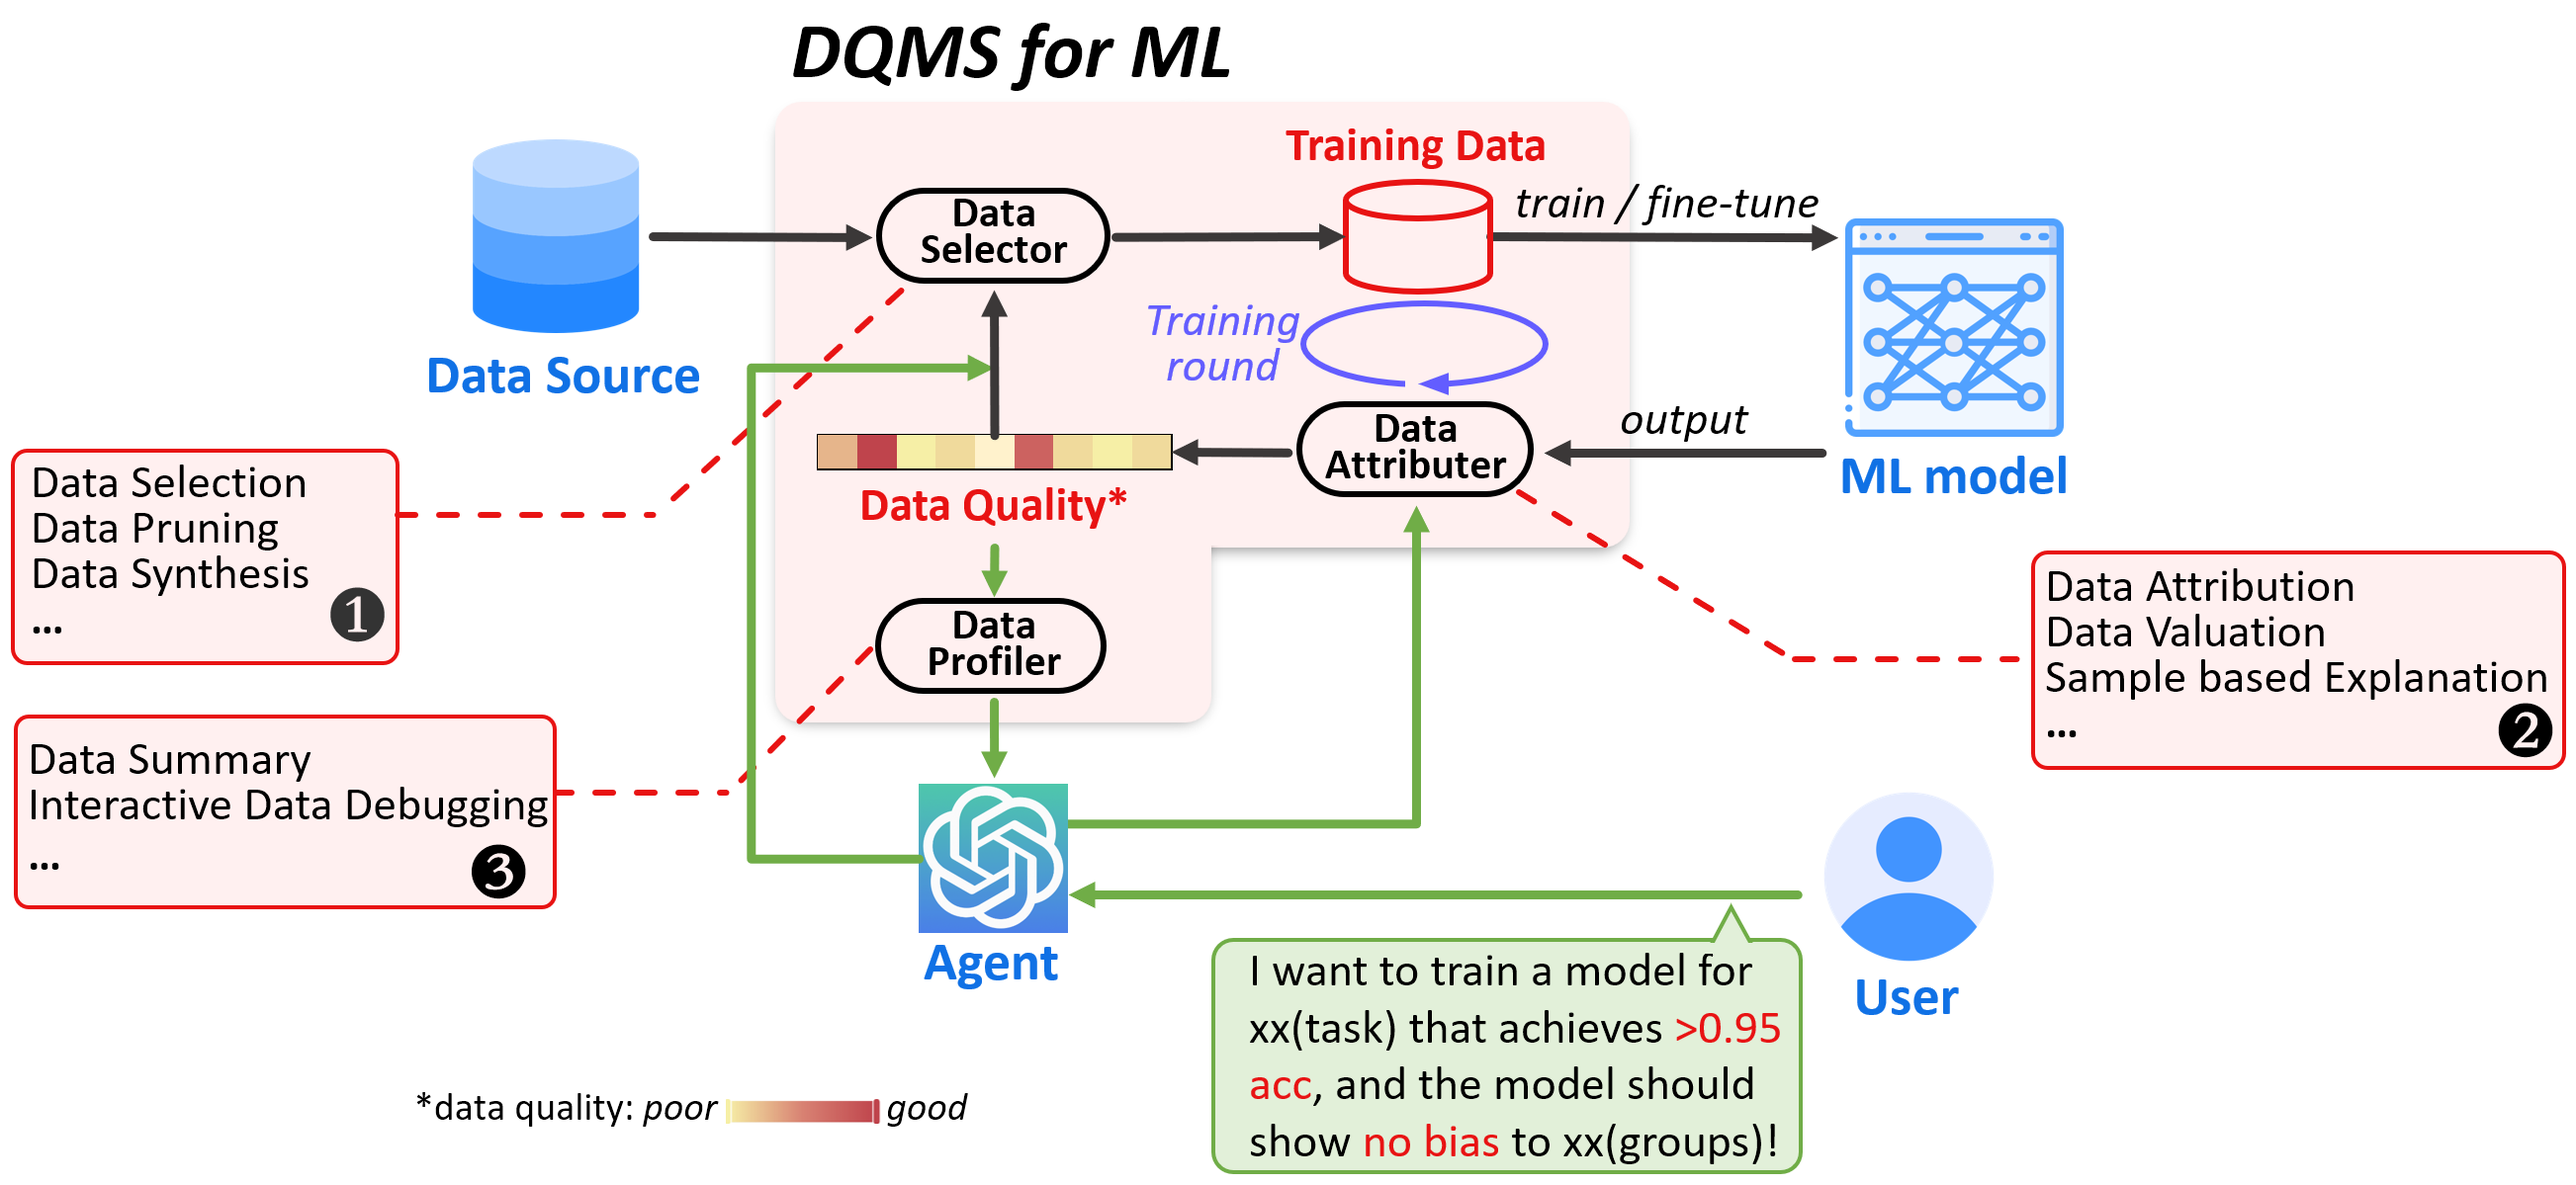
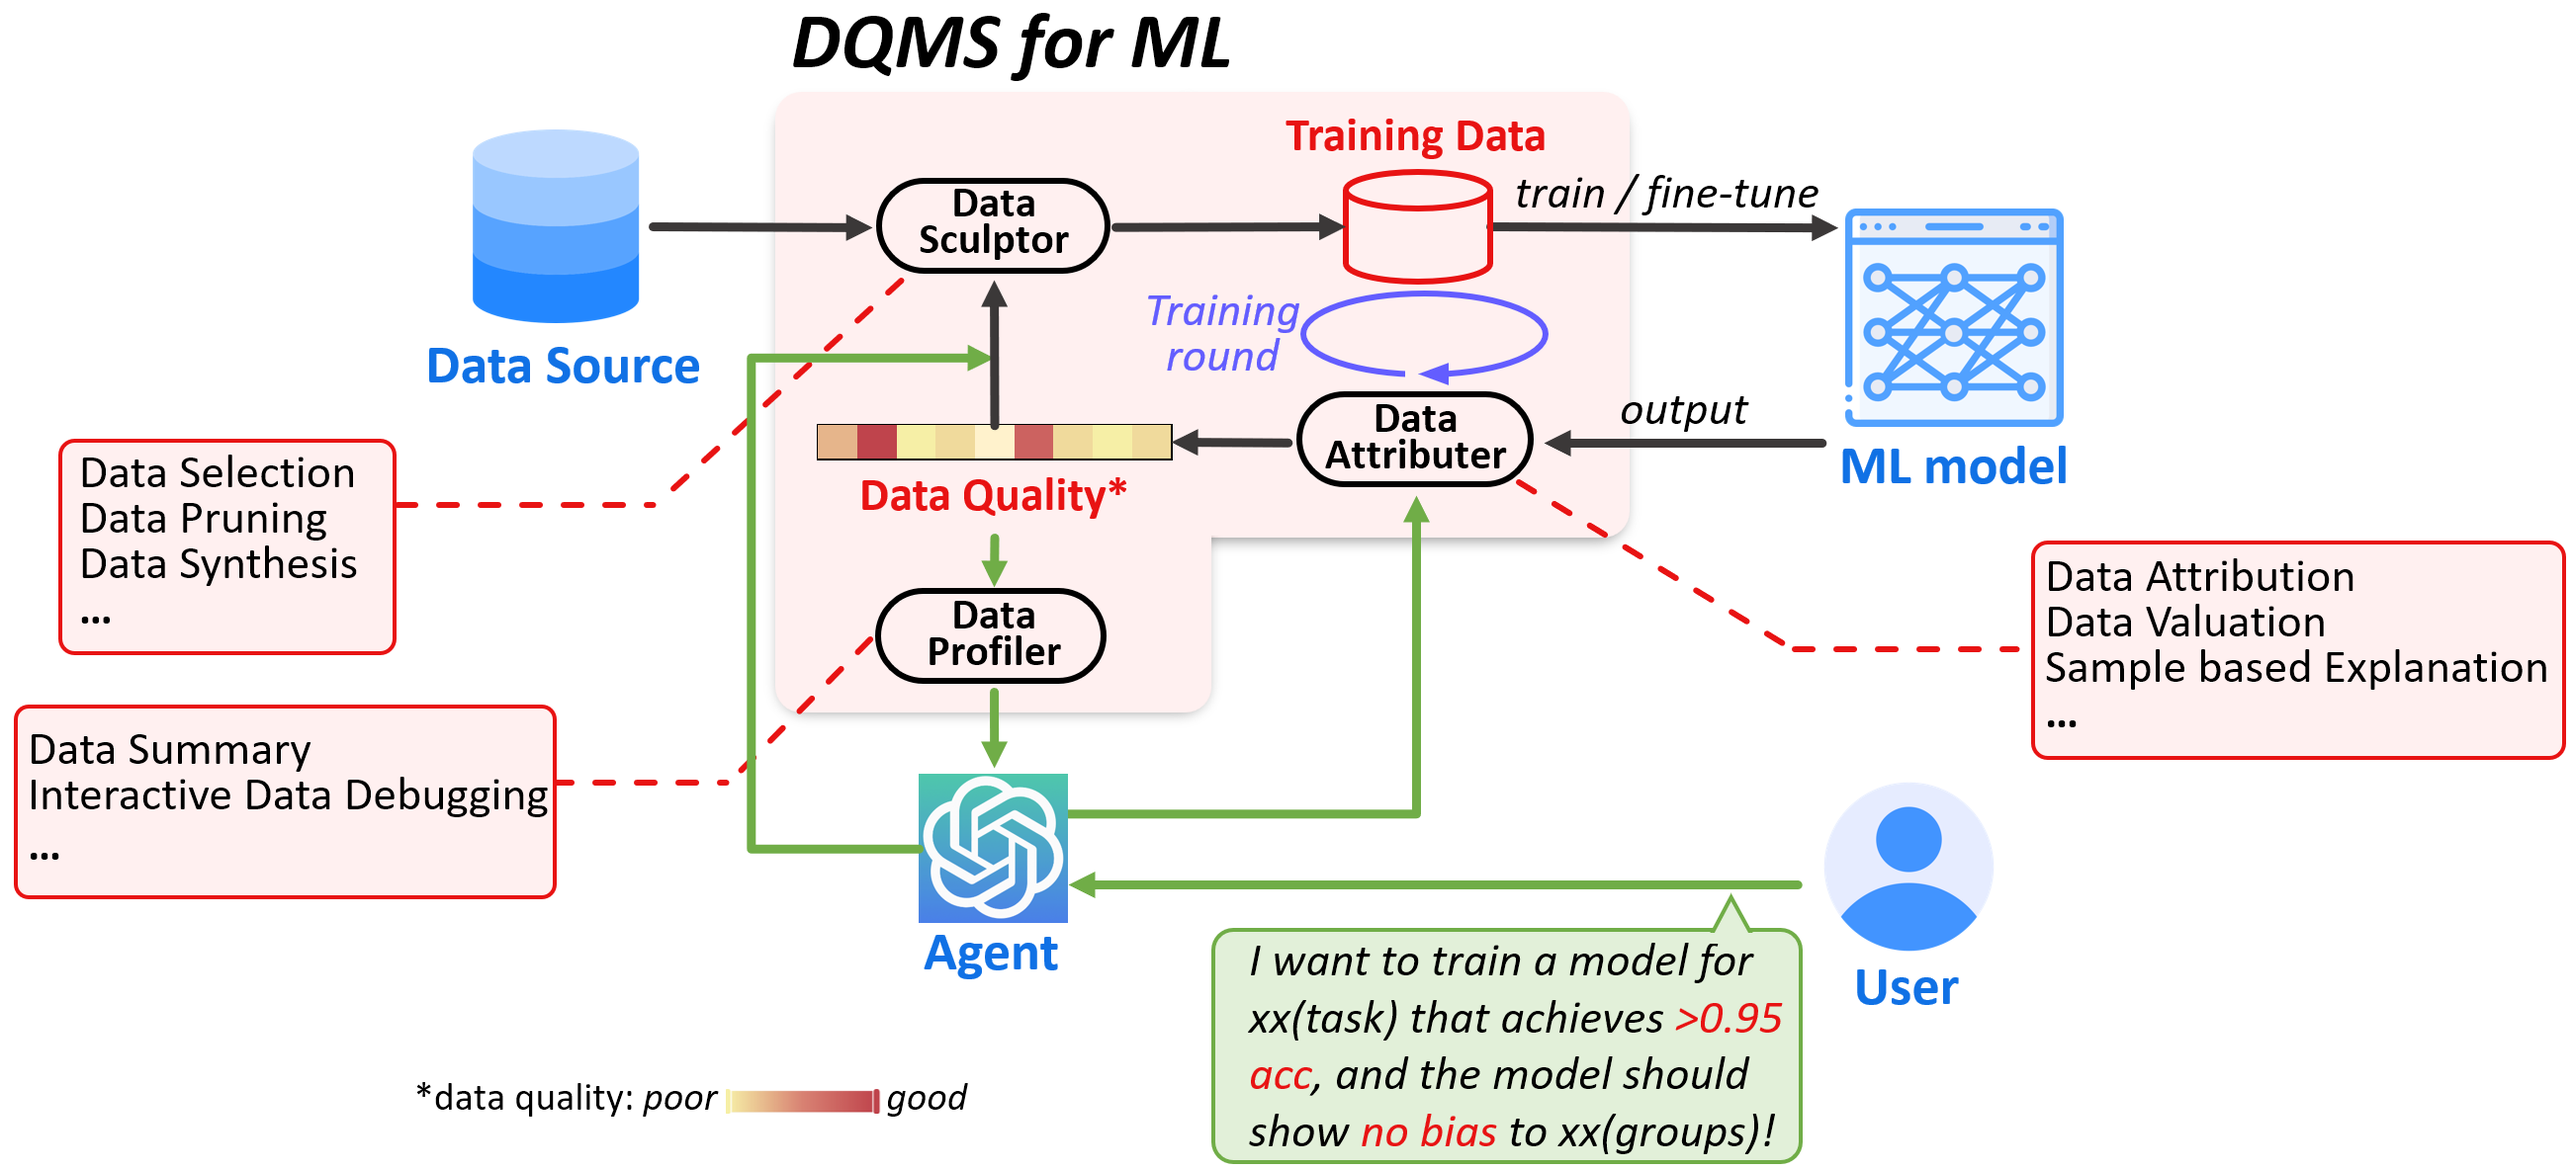
update papers

diff --git a/README.md b/README.md
@@ -17,9 +17,9 @@ Considering the following pipeline, DQMS acts as a **middleware** between data, 
 </div>
 
 
-A DQMS for ML typically consists of three components: **Data Selector**, **Data Attributer**, and **Data Profiler**. To achieve a well-performing ML model, multiple rounds of training are often required. In this process, the DQMS needs to iteratively adjust the training data based on the results of each round of model training. The workflow of DQMS in one round of training is as follows: (a) Data Selector first acquires the training dataset from a data source and trains the ML model with it. (b) After training for one round (several epochs), Data Attributer absorbs feedback from the model and user's task requirements and computes the data quality assessment. (c) Data Profiler then provides a user-friendly summary of the training data. (d) Meanwhile, Data Selector utilizes the data quality assessment as feedback to acquire higher-quality training data, thus initiating a new iteration.
+A DQMS for ML typically consists of three components: **Data Sculptor** [2], **Data Attributer**, and **Data Profiler**. To achieve a well-performing ML model, multiple rounds of training are often required. In this process, the DQMS needs to iteratively adjust the training data based on the results of each round of model training. The workflow of DQMS in one round of training is as follows: (a) Data sculptor first acquires the training dataset from a data source and trains the ML model with it. (b) After training for one round (several epochs), Data Attributer absorbs feedback from the model and user's task requirements and computes the data quality assessment. (c) Data Profiler then provides a user-friendly summary of the training data. (d) Meanwhile, Data Sculptor utilizes the data quality assessment as feedback to acquire higher-quality training data, thus initiating a new iteration.
 
-We collect the recent influential papers about DQMS for ML and annotate the relevant DQMS components involved in these papers, where `DS` = Data Selector, `DA` = Data Attributer, and `DP` = Data Profiler.
+We collect the recent influential papers about DQMS for ML and annotate the relevant DQMS components involved in these papers, where `DS` = Data Sculptor, `DA` = Data Attributer, and `DP` = Data Profiler.
 
 ## Paper List
 
@@ -27,8 +27,12 @@ We collect the recent influential papers about DQMS for ML and annotate the rele
 
 | Venue     | Paper                                                        |                            Links                             |   Tags    | TLDR                                                         |
 | :-------- | :----------------------------------------------------------- | :----------------------------------------------------------: | :-------: | :----------------------------------------------------------- |
+| VLDB'24   | Optimizing Data Acquisition to Enhance Machine Learning Performance | [paper](https://www.vldb.org/pvldb/vol14/p1832-li.pdf) [code](https://github.com/AwesomeYifan/Data-acquisition-for-ML) |   `DS`    |                                                              |
+| VLDB'24   | MisDetect: Iterative Mislabel Detection using Early Loss     | [paper](https://www.vldb.org/pvldb/vol17/p1159-chai.pdf) [code](https://github.com/anonymous-repo1/misdetect) |   `DA`    |                                                              |
+| SIGMOD'24 | Data Acquisition for Improving Model Confidence              |                                                              |           |                                                              |
 | SIGMOD'24 | Controllable Tabular Data Synthesis Using Diffusion Models   |                                                              |   `DS`    |                                                              |
 | SIGMOD'24 | Fast Shapley Value Computation in Data Assemblage Tasks as Cooperative Simple Games | [paper](https://xuc.me/file/paper/SIGMOD24b.pdf) [code](https://github.com/IDEAL-Lab/shapley-value-simple-game) |   `DA`    | *It assigns a Shapley score for data owners and their corresponding datasets in data market.* |
+| WWW'24    | Exploring Neural Scaling Law and Data Pruning Methods For Node Classification on Large-scale Graphs |                                                              |   `DS`    |                                                              |
 | AAAI'24   | Quality-Diversity Generative Sampling for Learning with Synthetic Data | [paper](https://ojs.aaai.org/index.php/AAAI/article/download/29955/31670) [code](https://github.com/Cylumn/qd-generative-sampling) |   `DS`    |                                                              |
 | AAAI'24   | Approximating the Shapley Value without Marginal Contributions | [paper](https://ojs.aaai.org/index.php/AAAI/article/download/29225/30311) |   `DA`    |                                                              |
 | WSDM'24   | FairIF: Boosting Fairness in Deep Learning via Influence Functions with Validation Set Sensitive Attributes | [paper](https://dl.acm.org/doi/pdf/10.1145/3616855.3635844?casa_token=0-2Cnoe2_kQAAAAA:kOtBF3rsnlzcX0tv-6og4n5LFG-xBbphXH_Aga45OeQUyJUpQBh4Bkoydcu2gf_8rFej0ljKUBFz) |   `DA`    |                                                              |
@@ -55,7 +59,7 @@ We collect the recent influential papers about DQMS for ML and annotate the rele
 | Venue            | Paper                                                        |                            Links                             |   Tags    | TLDR                                                         |
 | :--------------- | :----------------------------------------------------------- | :----------------------------------------------------------: | :-------: | :----------------------------------------------------------- |
 | arXiv'23         | The Journey, Not the Destination: How Data Guides Diffusion Models | [paper](http://arxiv.org/pdf/2312.06205.pdf) [code](https://github.com/MadryLab/journey-TRAK) |   `DA`    | -                                                            |
-| NIPS'23          | Data Selection for Language Models via Importance Resampling | [paper](https://openreview.net/pdf?id=uPSQv0leAu) [code](https://github.com/p-lambda/dsir) | `DS` `DA` | -                                                            |
+| NIPS'23          | Data Selection for Language Models via Importance Resampling | [paper](https://openreview.net/pdf?id=uPSQv0leAu) [code](https://github.com/p-lambda/dsir) | `DS` `DA` | *It selects data satisfying a target distribution from raw data by reducing KL divergence to the target over random selection.* |
 | NIPS'23          | Model Shapley: Equitable Model Valuation with Black-box Access | [paper](https://openreview.net/pdf?id=Y6IGTNMdLT) [code](https://github.com/XinyiYS/ModelShapley) |   `DA`    | -                                                            |
 | NIPS'23          | Threshold KNN-Shapley: A Linear-Time and Privacy-Friendly Approach to Data Valuation |      [paper](https://openreview.net/pdf?id=FAZ3i0hvm0)       |   `DA`    | *Extend KNN-Shapley while considering data privacy.*         |
 | NIPS'23          | GEX: A flexible method for approximating influence via Geometric Ensemble | [paper](https://openreview.net/attachment?id=tz4ECtAu8e&name=pdf) [code](https://github.com/sungyubkim/gex) |   `DA`    | -                                                            |
@@ -98,6 +102,8 @@ We collect the recent influential papers about DQMS for ML and annotate the rele
 | ICDE'23          | Automatic Feasibility Study via Data Quality Analysis for ML: A Case-Study on Label Noise | [paper](https://arxiv.org/pdf/2010.08410.pdf) [code](https://github.com/easeml/snoopy) |   `DP`    | -                                                            |
 | ICDE'23          | Detection of Groups with Biased Representation in Ranking    |        [paper](https://arxiv.org/pdf/2301.00719.pdf)         |   `DA`    | -                                                            |
 | AAAI'23          | Fundamentals of Task-Agnostic Data Valuation                 | [paper](https://ojs.aaai.org/index.php/AAAI/article/view/26106/25878) |   `DA`    | -                                                            |
+| AAAI'23          | Interpreting Unfairness in Graph Neural Networks via Training Node Attribution | [paper](https://ojs.aaai.org/index.php/AAAI/article/view/25905/25677) [code](https://github.com/yushundong/BIND) |   `DA`    | *This work proposes a Probabilistic Distribution Disparity to define node-contributed model bias and use gradient approximation to estimate node-level bias.* |
+| AAAI'23          | Interpreting Unfairness in Graph Neural Networks via Training Node Attribution | [paper](https://ojs.aaai.org/index.php/AAAI/article/download/25905/25677) [code](https://github.com/yushundong/BIND) |   `DA`    |                                                              |
 | WWW'23           | GIF: A General Graph Unlearning Strategy via Influence Function | [paper](https://arxiv.org/pdf/2304.02835.pdf) [code](https://github.com/wujcan/GIF-torch/) |   `DA`    | *GIF extends influence function to graph data by considering both the directly affected node(s) and the influenced neighborhoods.* |
 | AISTATS'23       | Data Banzhaf: A Robust Data Valuation Framework for Machine Learning | [paper](https://proceedings.mlr.press/v206/wang23e/wang23e.pdf) |   `DA`    | -                                                            |
 | arXiv'23         | Data-Juicer: A One-Stop Data Processing System for Large Language Models | [paper](https://arxiv.org/pdf/2309.02033.pdf) [code](https://github.com/alibaba/data-juicer) | `DS` `DP` | -                                                            |
@@ -111,9 +117,10 @@ We collect the recent influential papers about DQMS for ML and annotate the rele
 | NIPS'22    | CS-SHAPLEY: Class-wise Shapley Values for Data Valuation in Classification | [paper](https://openreview.net/pdf?id=KTOcrOR5mQ9) [code](https://github.com/stephanieschoch/cs-shapley) |   `DA`    |                                                              |
 | NIPS'22    | Beyond neural scaling laws: beating power law scaling via data pruning |      [paper](https://openreview.net/pdf?id=UmvSlP-PyV)       |   `DS`    |                                                              |
 | NIPS'22    | Quality Not Quantity: On the Interaction between Dataset Design and Robustness of CLIP | [paper](https://openreview.net/pdf?id=LTCBavFWp5C) [code](https://github.com/mlfoundations/clip_quality_not_quantity) |   `DS`    |                                                              |
+| NIPS'22    | Quantifying memorization across neural language models       | [paper](https://arxiv.org/pdf/2202.07646.pdf?trk=public_post_comment-text) |   `DA`    |                                                              |
 | ICML'22    | Measuring the Effect of Training Data on Deep Learning Predictions via Randomized Experiments | [paper](https://proceedings.mlr.press/v162/lin22h/lin22h.pdf) |   `DA`    |                                                              |
 | ICML'22    | Meaningfully Debugging Model Mistakes using Conceptual Counterfactual Explanations | [papeer](https://proceedings.mlr.press/v162/abid22a/abid22a.pdf) [code](https://github.com/mertyg/debug-mistakes-cce) | `DS` `DP` | *It learns CAV and move those misclassified training samples toward the direction of CAV.* |
-| ICML'22    | Datamodels: Predicting Predictions from Training Data        | [paper](https://proceedings.mlr.press/v162/ilyas22a/ilyas22a.pdf) [code](https://github.com/MadryLab/datamodels-data) |   `DA`    |                                                              |
+| ICML'22    | Datamodels: Predicting Predictions from Training Data        | [paper](https://proceedings.mlr.press/v162/ilyas22a/ilyas22a.pdf) [code](https://github.com/MadryLab/datamodels-data) |   `DA`    | *Datamodels learns a function $2^S\to R$  with $S'\in S$ as training samples and $f_A(x;S')$ as labels (train $A$ on $S'$ and evaluate on $x$).* |
 | ICML'22    | Prioritized Training on Points that are learnable, Worth Learning, and Not Yet Learnt | [paper](https://proceedings.mlr.press/v162/mindermann22a/mindermann22a.pdf) [code](https://github.com/OATML/RHO-Loss) |   `DS`    |                                                              |
 | ICML'22    | Achieving Fairness at No Utility Cost via Data Reweighing with Influence | [paper](https://proceedings.mlr.press/v162/li22p/li22p.pdf) [code](https://github.com/brandeis-machine-learning/influence-fairness) |   `DA`    | *It employs DP and EOP to compute IF and performs soft reweighing on training samples. The proof of no-utility-degradation is provided.* |
 | ICML'22    | DAVINZ: Data Valuation using Deep Neural Networks at Initialization | [paper](https://proceedings.mlr.press/v162/wu22j/wu22j.pdf)  |   `DA`    |                                                              |
@@ -180,3 +187,9 @@ We collect the recent influential papers about DQMS for ML and annotate the rele
 
 1. More papers about Data Valuation can be found in [awesome-data-valuation](https://github.com/daviddao/awesome-data-valuation). `DA`
 2. More papers about Data Pruning can be found in [Awesome-Coreset-Selection](https://github.com/PatrickZH/Awesome-Coreset-Selection). `DS`
+
+## Reference
+
+[1] Gupta, Nitin, et al. "Data quality for machine learning tasks." *Proceedings of the 27th ACM SIGKDD conference on knowledge discovery & data mining*. 2021.
+
+[2] Liang, Weixin, et al. "Advances, challenges and opportunities in creating data for trustworthy AI." *Nature Machine Intelligence* 4.8 (2022): 669-677.
